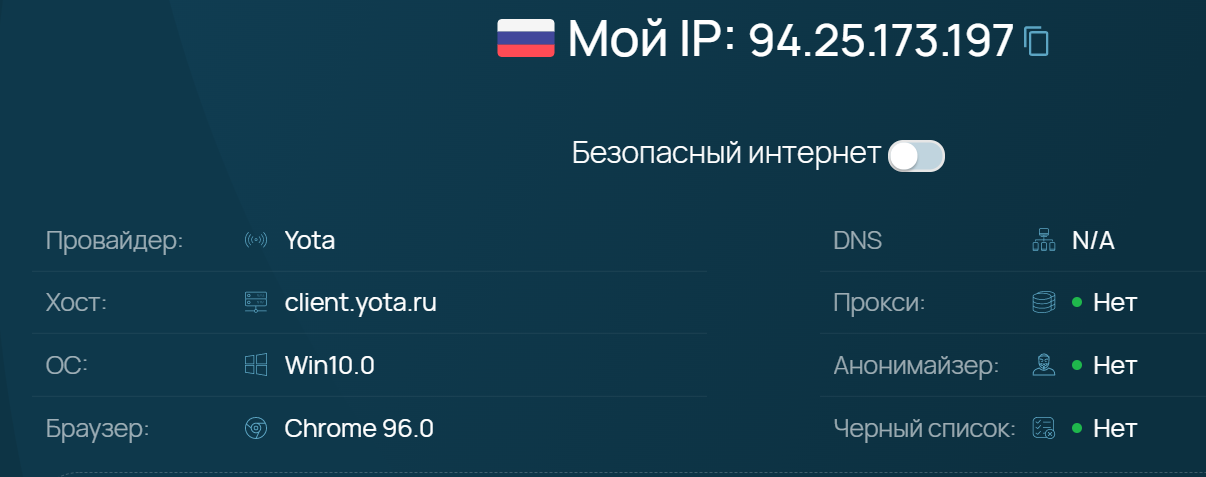
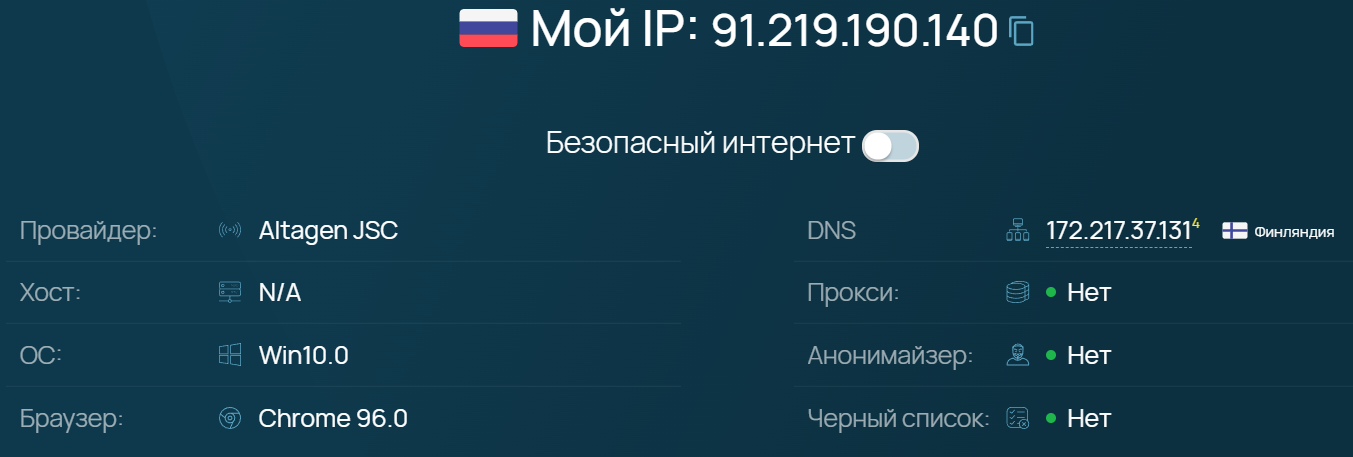
Домашнее задание к занятию "3.6. Компьютерные сети, лекция 1"

diff --git a/03-sysadmin-06-net/README.md b/03-sysadmin-06-net/README.md
@@ -30,14 +30,64 @@
 ![](IMG/3.PNG) 
 #### 4. Какому провайдеру принадлежит ваш IP адрес? Какой автономной системе AS? Воспользуйтесь утилитой `whois`
 #### Решение:
-Мой IP адрес принадлежит провайдеру Yota  
+Мой IP адрес принадлежит провайдеру ЗАО «АЛЬТАГЕН»  
 
-    vagrant@vagrant:~$ whois 94.25.173.197 | grep 'descr'  
-    descr:          YOTA - Moscow and Moskovskaya obl.  
-Автономная система (в моем случае почему-то две AS)
+    vagrant@vagrant:~$ whois 91.219.190.140 | grep 'org-name'
+    org-name:       Altagen JSC  
+Автономная система AS50473
 
-    vagrant@vagrant:~$ whois 94.25.173.197 | grep 'origin'  
-    origin:         AS25159  
-    origin:         AS47395
+    vagrant@vagrant:~$ whois 91.219.190.140 | grep 'origin'
+    origin:         AS50473
 #### 5. Через какие сети проходит пакет, отправленный с вашего компьютера на адрес 8.8.8.8? Через какие AS? Воспользуйтесь утилитой `traceroute`
 #### Решение:
+    vagrant@vagrant:~$ traceroute -AnI 8.8.8.8  
+    traceroute to 8.8.8.8 (8.8.8.8), 30 hops max, 60 byte packets  
+    1  10.0.2.2 [*]  0.266 ms  0.239 ms  0.226 ms    
+    2  192.168.50.1 [*]  3.775 ms  3.717 ms  3.710 ms  
+    3  10.210.56.1 [*]  3.705 ms  4.300 ms  4.475 ms  
+    4  10.15.0.45 [*]  3.692 ms  4.312 ms  4.290 ms  
+    5  193.105.59.229 [AS50473]  12.608 ms  12.748 ms  12.727 ms  
+    6  46.151.158.234 [AS50473]  7.306 ms  5.258 ms  10.037 ms  
+    7  193.105.59.216 [AS50473]  5.116 ms  6.776 ms  6.939 ms  
+    8  46.151.158.242 [AS50473]  6.923 ms  7.046 ms  7.030 ms  
+    9  142.251.64.109 [AS15169]  5.314 ms  5.482 ms  7.017 ms  
+    10  108.170.250.66 [AS15169]  7.852 ms  8.024 ms  8.020 ms  
+    11  * * 142.251.49.78 [AS15169]  17.392 ms  
+    12  209.85.254.6 [AS15169]  17.445 ms  17.426 ms  16.415 ms  
+    13  172.253.51.239 [AS15169]  16.607 ms  17.974 ms  16.274 ms  
+    14  * * *  
+    15  * * *  
+    16  * * *  
+    17  * * *  
+    18  * * *  
+    19  * * *  
+    20  * * *  
+    21  * * *  
+    22  * * *  
+    23  8.8.8.8 [AS15169]  15.753 ms  16.884 ms  16.644 ms  
+Список и принадлежность AS:  
+
+    AS50473 - Altagen JSC  
+    AS15169 - Google LLC
+#### 6. Повторите задание 5 в утилите `mtr`. На каком участке наибольшая задержка - delay?
+#### Решение:
+Самая большая задержка на 1 участке (столбец Wrst, показатель 114.4)  
+![](IMG/4.PNG) 
+#### 7. Какие DNS сервера отвечают за доменное имя dns.google? Какие A записи? воспользуйтесь утилитой `dig`
+#### Решение:
+DNS сервера выводим командой `dig dns.google NS`. Список DNS серверов:  
+
+    dns.google.             7668    IN      NS      ns1.zdns.google.
+    dns.google.             7668    IN      NS      ns3.zdns.google.
+    dns.google.             7668    IN      NS      ns2.zdns.google.
+    dns.google.             7668    IN      NS      ns4.zdns.google.  
+A записи выводим командой `dig dns.google A`. Список A записей:  
+
+    dns.google.             275     IN      A       8.8.4.4
+    dns.google.             275     IN      A       8.8.8.8
+#### 8. Проверьте PTR записи для IP адресов из задания 7. Какое доменное имя привязано к IP? воспользуйтесь утилитой `dig`
+#### Решение:
+Быстро проверить наличие PTR записи (и, соответственно, привязанное к IP доменное имя) можно при помощи `dig -x 8.8.8.8` и `dig -x 8.8.4.4`  
+
+    4.4.8.8.in-addr.arpa.   6984    IN      PTR     dns.google.  
+    8.8.8.8.in-addr.arpa.   15102   IN      PTR     dns.google.
